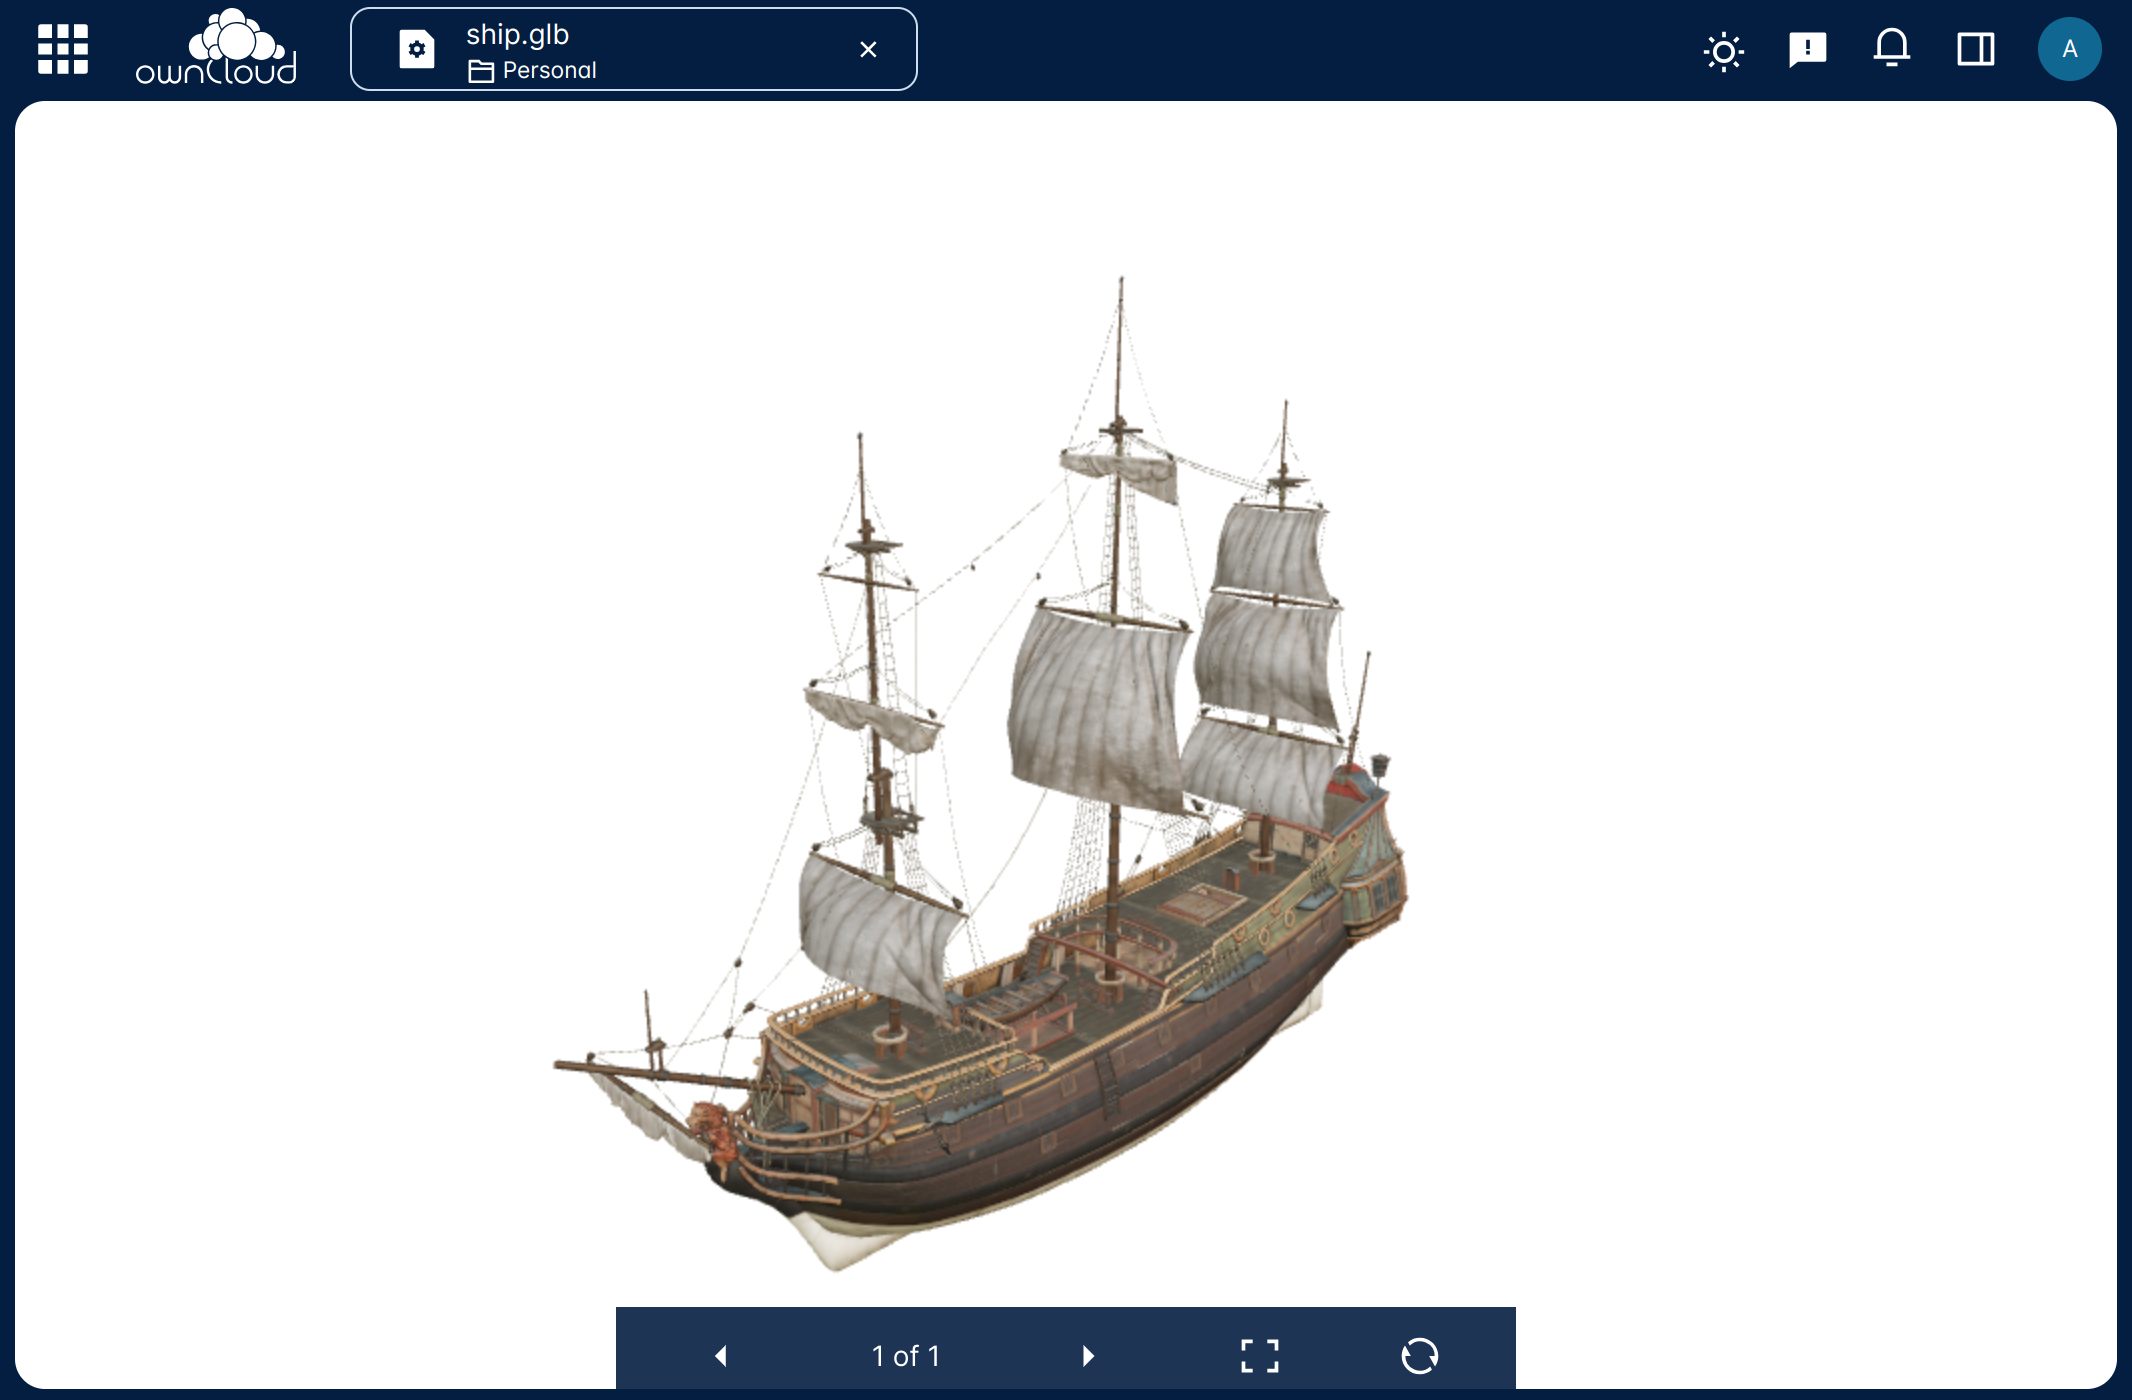
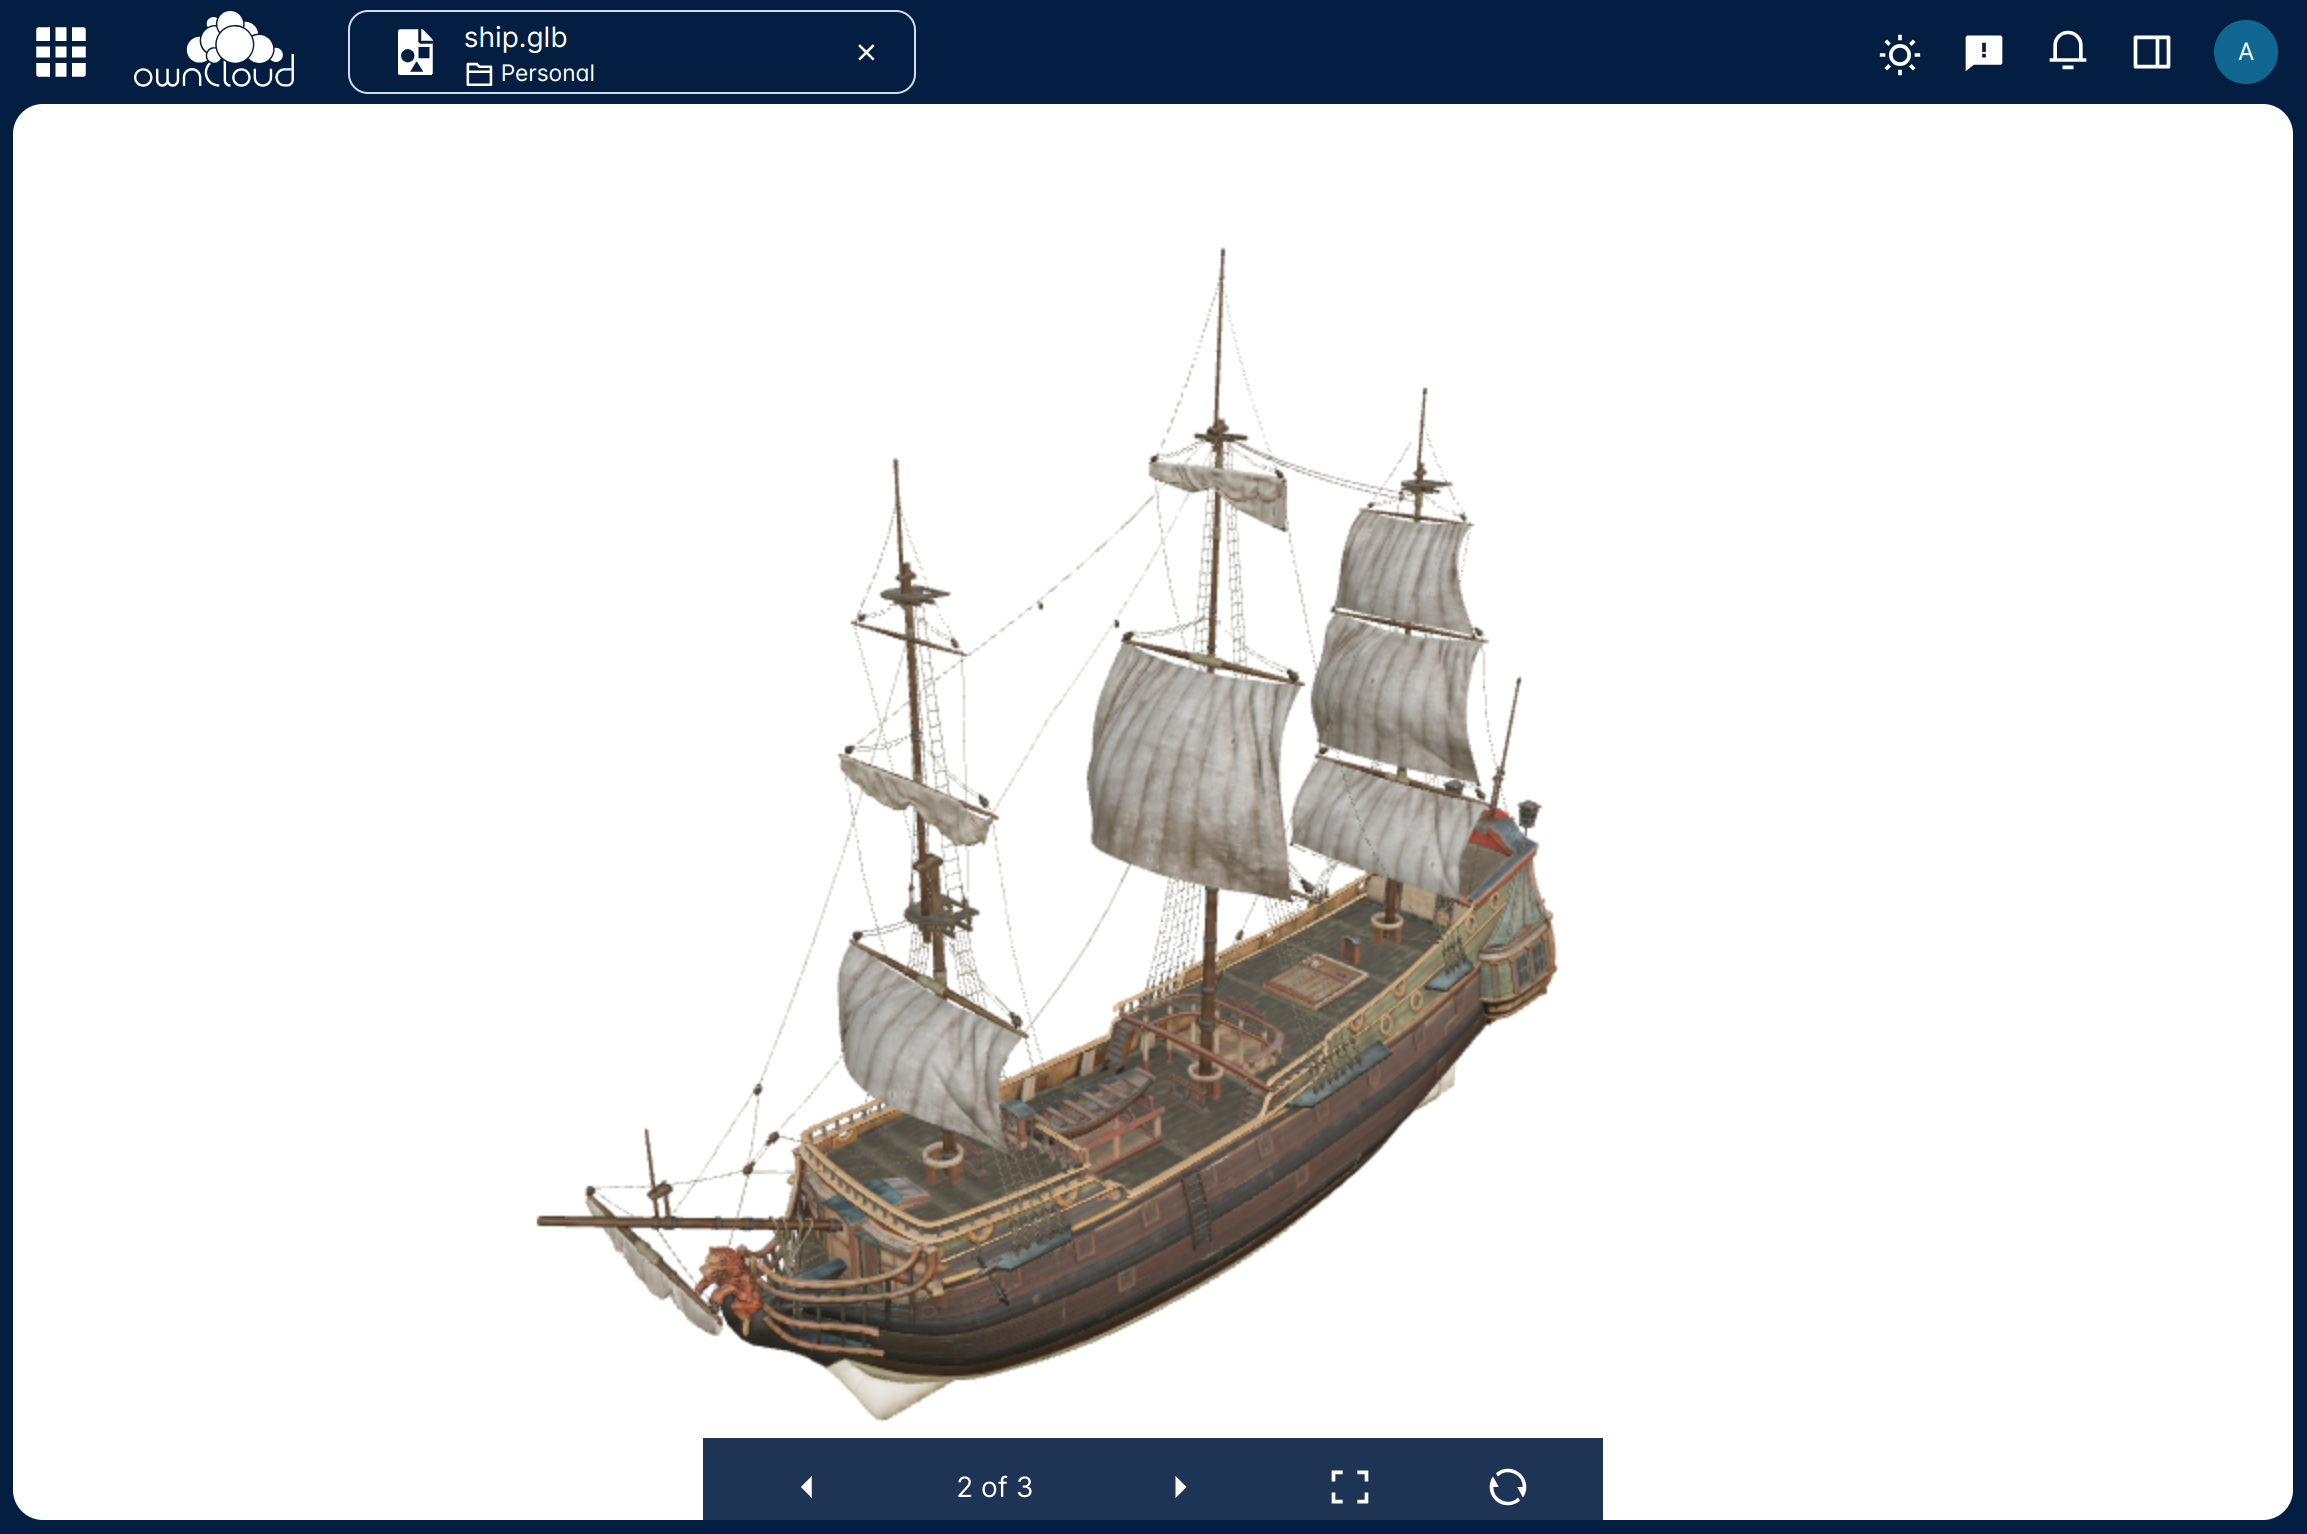
docs: add feature highlights

Changed region(s): [[0.2167, 0.1843, 0.712, 1.0], [0.0, 0.0, 1.0, 0.0921], [0.9906, 0.9521, 1.0, 0.9829]]

diff --git a/README.md b/README.md
@@ -4,6 +4,12 @@
 
 It is an extension for [ownCloud web](https://github.com/owncloud/web) for viewing 3D files. Currently, it can only open `.glb` file format.
 
+## Feature Highlights ✨
+
+- Zoom/Rotate model
+- Fullscreen view
+- Navigate between model files
+
 ## Docker Image
 
 This extension is available as docker image: [sawjan/web-app-3dmodel-viewer](https://hub.docker.com/r/sawjan/web-app-3dmodel-viewer/tags)
